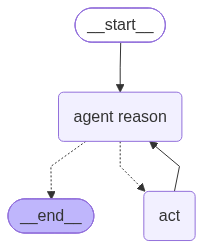
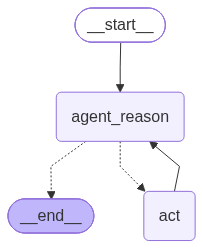
chnaged the agent which works well with tool calling

diff --git a/main.py b/main.py
@@ -88,11 +88,11 @@ def main() -> None:
     app = build_graph()
     draw_graph(app)
 
-    initial_input = {"messages": [HumanMessage(content="Hello! How can you help me?")]}
+    initial_input = {"messages": [HumanMessage(content="What is the current temperature raibag right now..? List it and triple it.")]}
 
     try:
         result = app.invoke(initial_input)
-        logger.info(f"Final state: {result}")
+        logger.info(f"Final state: {result["messages"][LAST].content}")
     except Exception as e:
         logger.exception(f"Error during graph execution: {e}")
 

diff --git a/react.py b/react.py
@@ -14,7 +14,7 @@ logger = logging.getLogger(__name__)
 
 
 class AgentConfig:
-    MODEL_NAME = "llama-3.1-8b-instant"
+    MODEL_NAME = "openai/gpt-oss-20b"
     TEMPERATURE = 0
     MAX_SEARCH_RESULTS = 1
     MAX_RETRIES = 3
